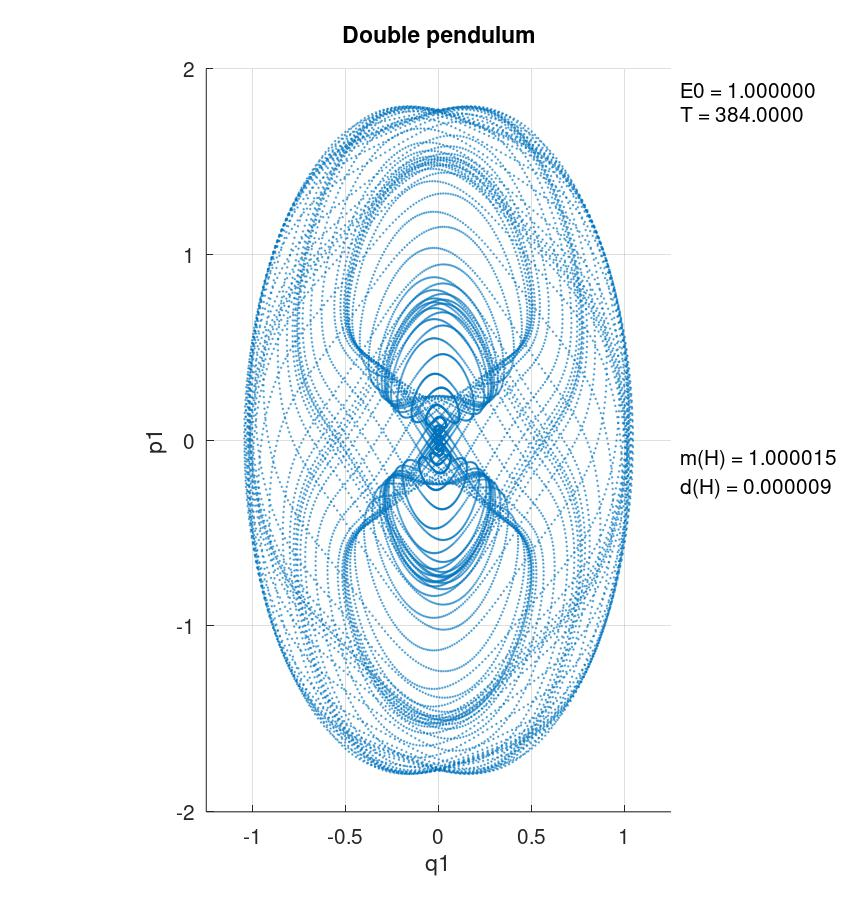
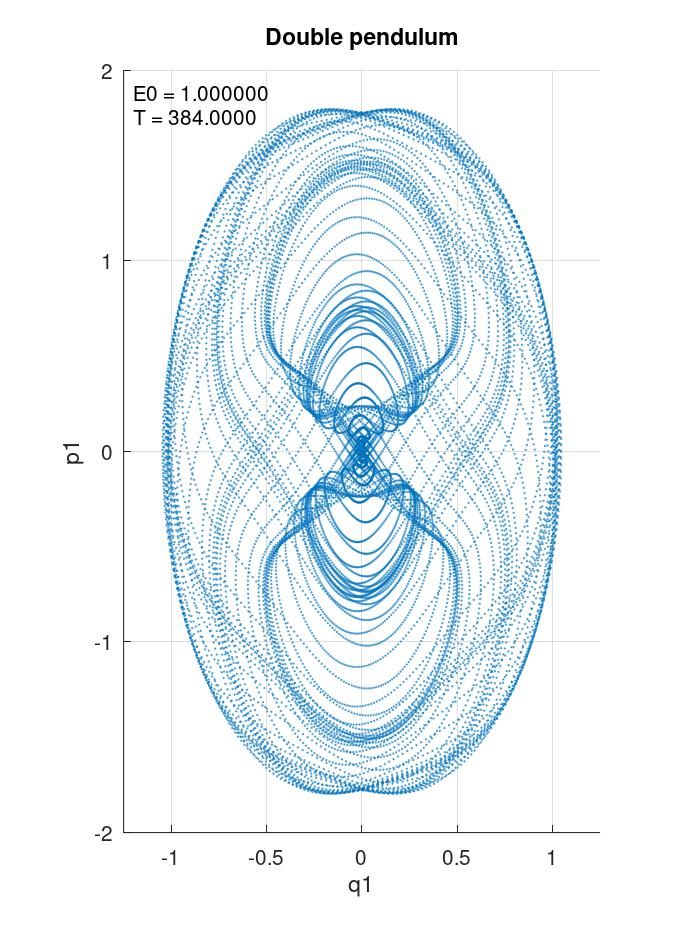
change text position on plots

diff --git a/ode/dpendulum/octave/dpendulum-lagrange.m b/ode/dpendulum/octave/dpendulum-lagrange.m
@@ -1,5 +1,10 @@
 # Double pendulum
-1;
+
+printf(" --- Initial conditions --- \n");
+q01 = 0;
+q02 = 6*atan(2 - sqrt(3));
+u01 = 0;
+u02 = 0;
 
 function xdot = f(x,t)
   c12 = cos(x(1) - x(2));
@@ -10,7 +15,7 @@ function xdot = f(x,t)
   xdot(4) = (2*sin(x(1))*c12 - 2*sin(x(2)) + s12*(2*x(3)^2 + c12*x(4)^2)) / (2 - c12^2);
 endfunction
 
-x = lsode("f", [0; 3*atan(1/sqrt(3)); 0; 0], (t = linspace (0, 384, 19200)'));
+x = lsode("f", [q01; q02; u01; u02], (t = linspace (0, 384, 19200)'));
 
 #set term postcript;
 #set output "sample.ps";
@@ -21,5 +26,8 @@ axis([-1.25, 1.25, -1.5, 1.5])
 grid on
 title "Double pendulum"
 xlabel "q1"
-ylabel "d q1 / d t"
+ylabel "u1"
 
+hP = axis();
+ts1 = sprintf("Q0 = [%f, %f]\nU0 = [%f, %f]\n", q01, q02, u01, u02);
+text(-hP(2) + 0.05*(hP(2) - hP(1)), hP(4) - 0.05*(hP(4) - hP(3)), ts1);

diff --git a/ode/dpendulum/octave/dpendulum-hamilton.m b/ode/dpendulum/octave/dpendulum-hamilton.m
@@ -41,10 +41,7 @@ ylabel "p1"
 ts1 = sprintf("E0 = %f\nT = %.4f\n", H(p01, p02, q01, q02), Tmax);
 ts2 = sprintf("m(H) = %f\nd(H) = %f\n", mean(Hv), sqrt(cov(Hv)));
 hP = axis();
-text(hP(2) + 0.02*(hP(2) - hP(1)), hP(4) - 0.05*(hP(4) - hP(3)), ts1);
-text(hP(2) + 0.02*(hP(2) - hP(1)), 0.5*(hP(4) + hP(3)) - 0.05*(hP(4) - hP(3)), ts2);
+text(-hP(2) + 0.02*(hP(2) - hP(1)), hP(4) - 0.05*(hP(4) - hP(3)), ts1);
+#text(-hP(2) + 0.02*(hP(2) - hP(1)), 0.5*(hP(4) + hP(3)) - 0.05*(hP(4) - hP(3)), ts2);
 
-printf(" --- Energy integral --- \n");
-printf(ts1);
-printf(ts2);
-
+printf(" --- Energy integral --- \n%s\n%s\n", ts1, ts2);
